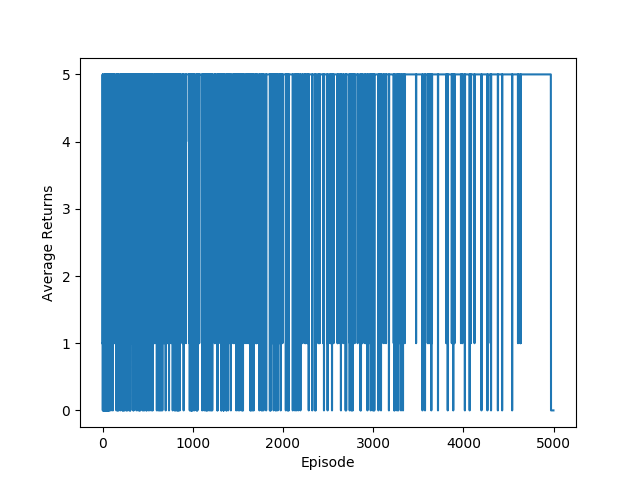
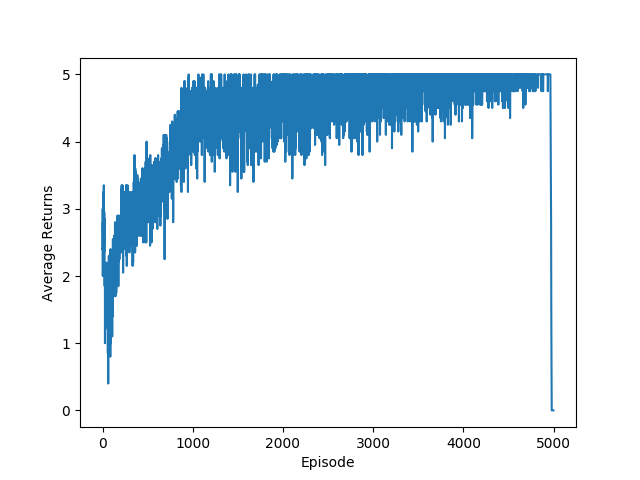
better figure for 2layer

diff --git a/code/neural.py b/code/neural.py
@@ -6,7 +6,7 @@ alpha = 0.1
 gamma = .99
 eps0 = 0.3
 episodes = 5000 
-runs = 1
+runs = 20
 c = 2
 lr = .1
 visualize = False
